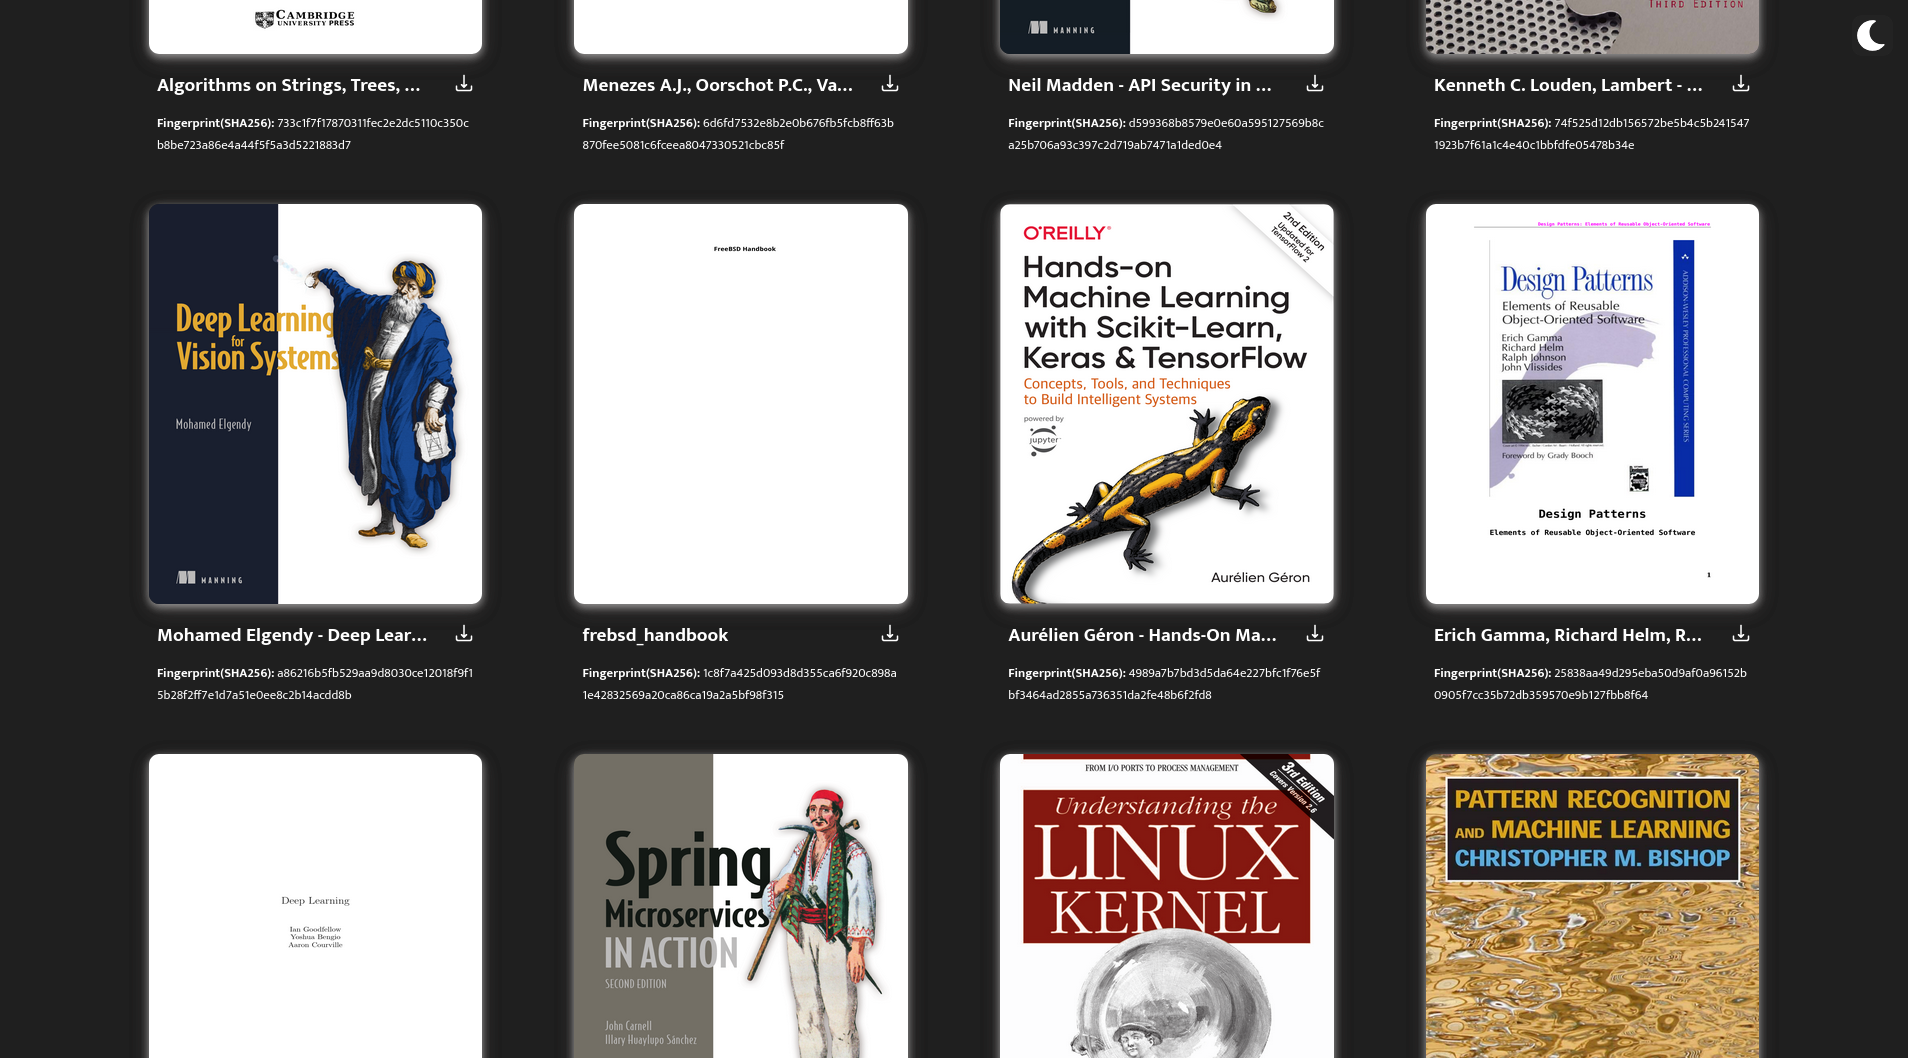
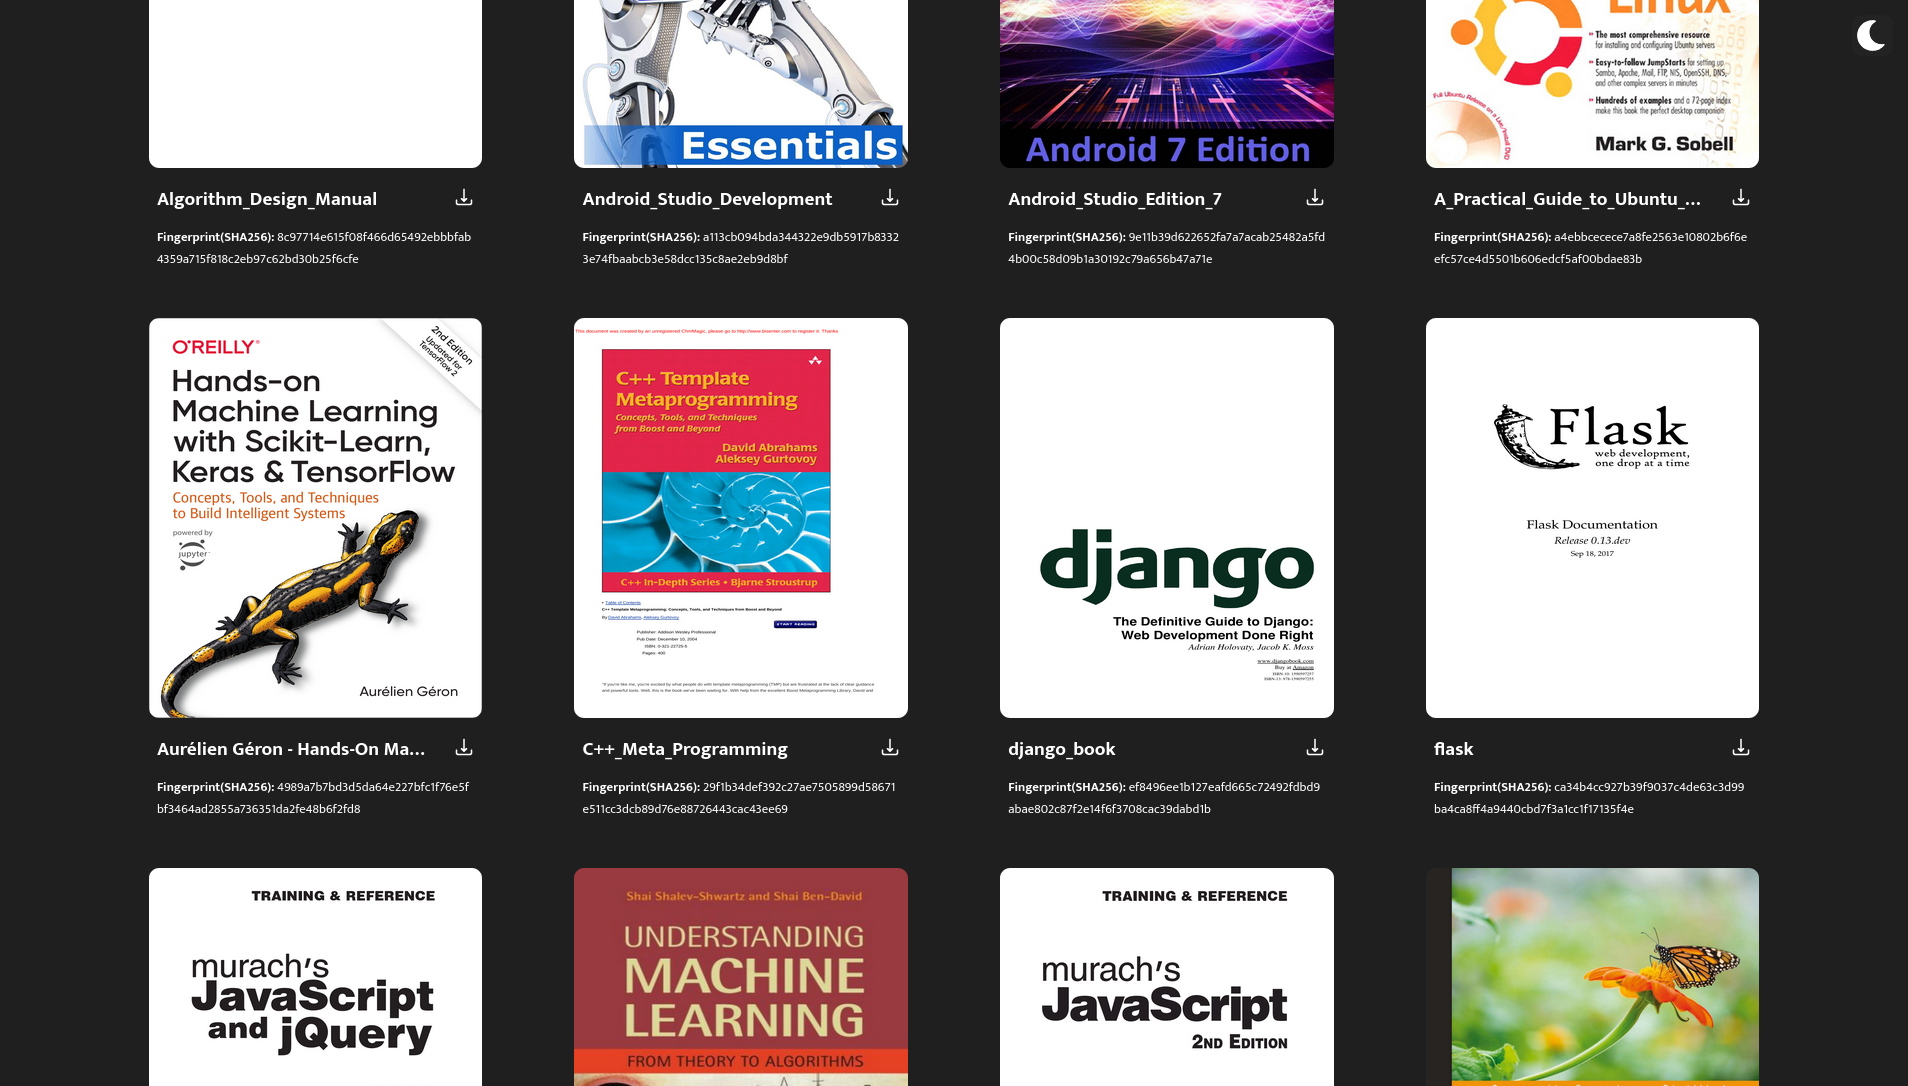
removed frame background blur for dark mode environments

diff --git a/frontend/src/App.vue b/frontend/src/App.vue
@@ -33,8 +33,7 @@ export default {
   --text-primary-color: #ffffff;
   --icon-primary-color: invert(100%) sepia(39%) saturate(0%) hue-rotate(276deg)
                         brightness(105%) contrast(100%);
-  --document-frame-shadow: 0 3px 8px 0 rgba(255, 255, 255, 0.3), 0 6px 20px 0
-                         rgba(110, 99, 99, 0.19);
+  --document-frame-shadow: none;
 }
 
 body {
